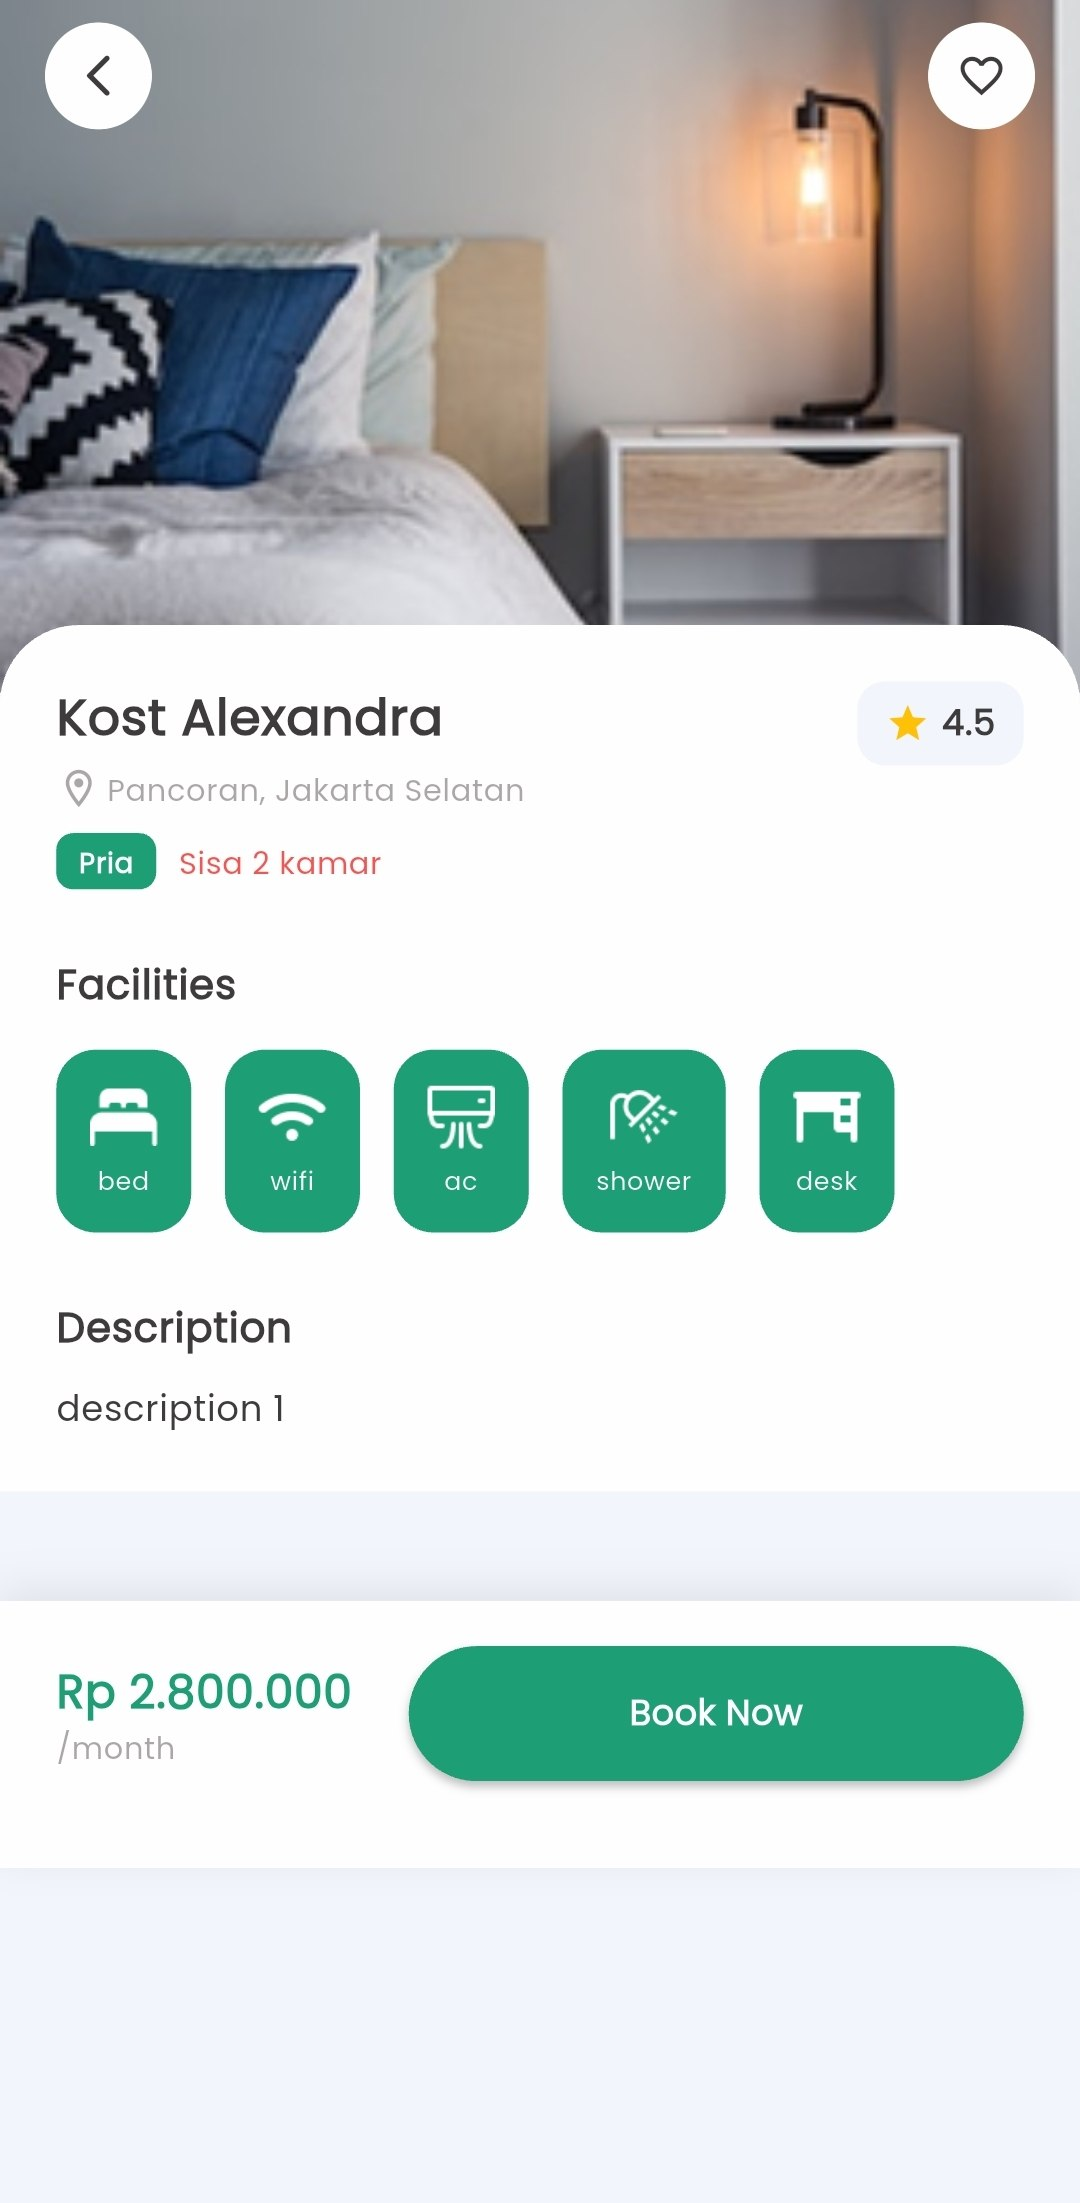
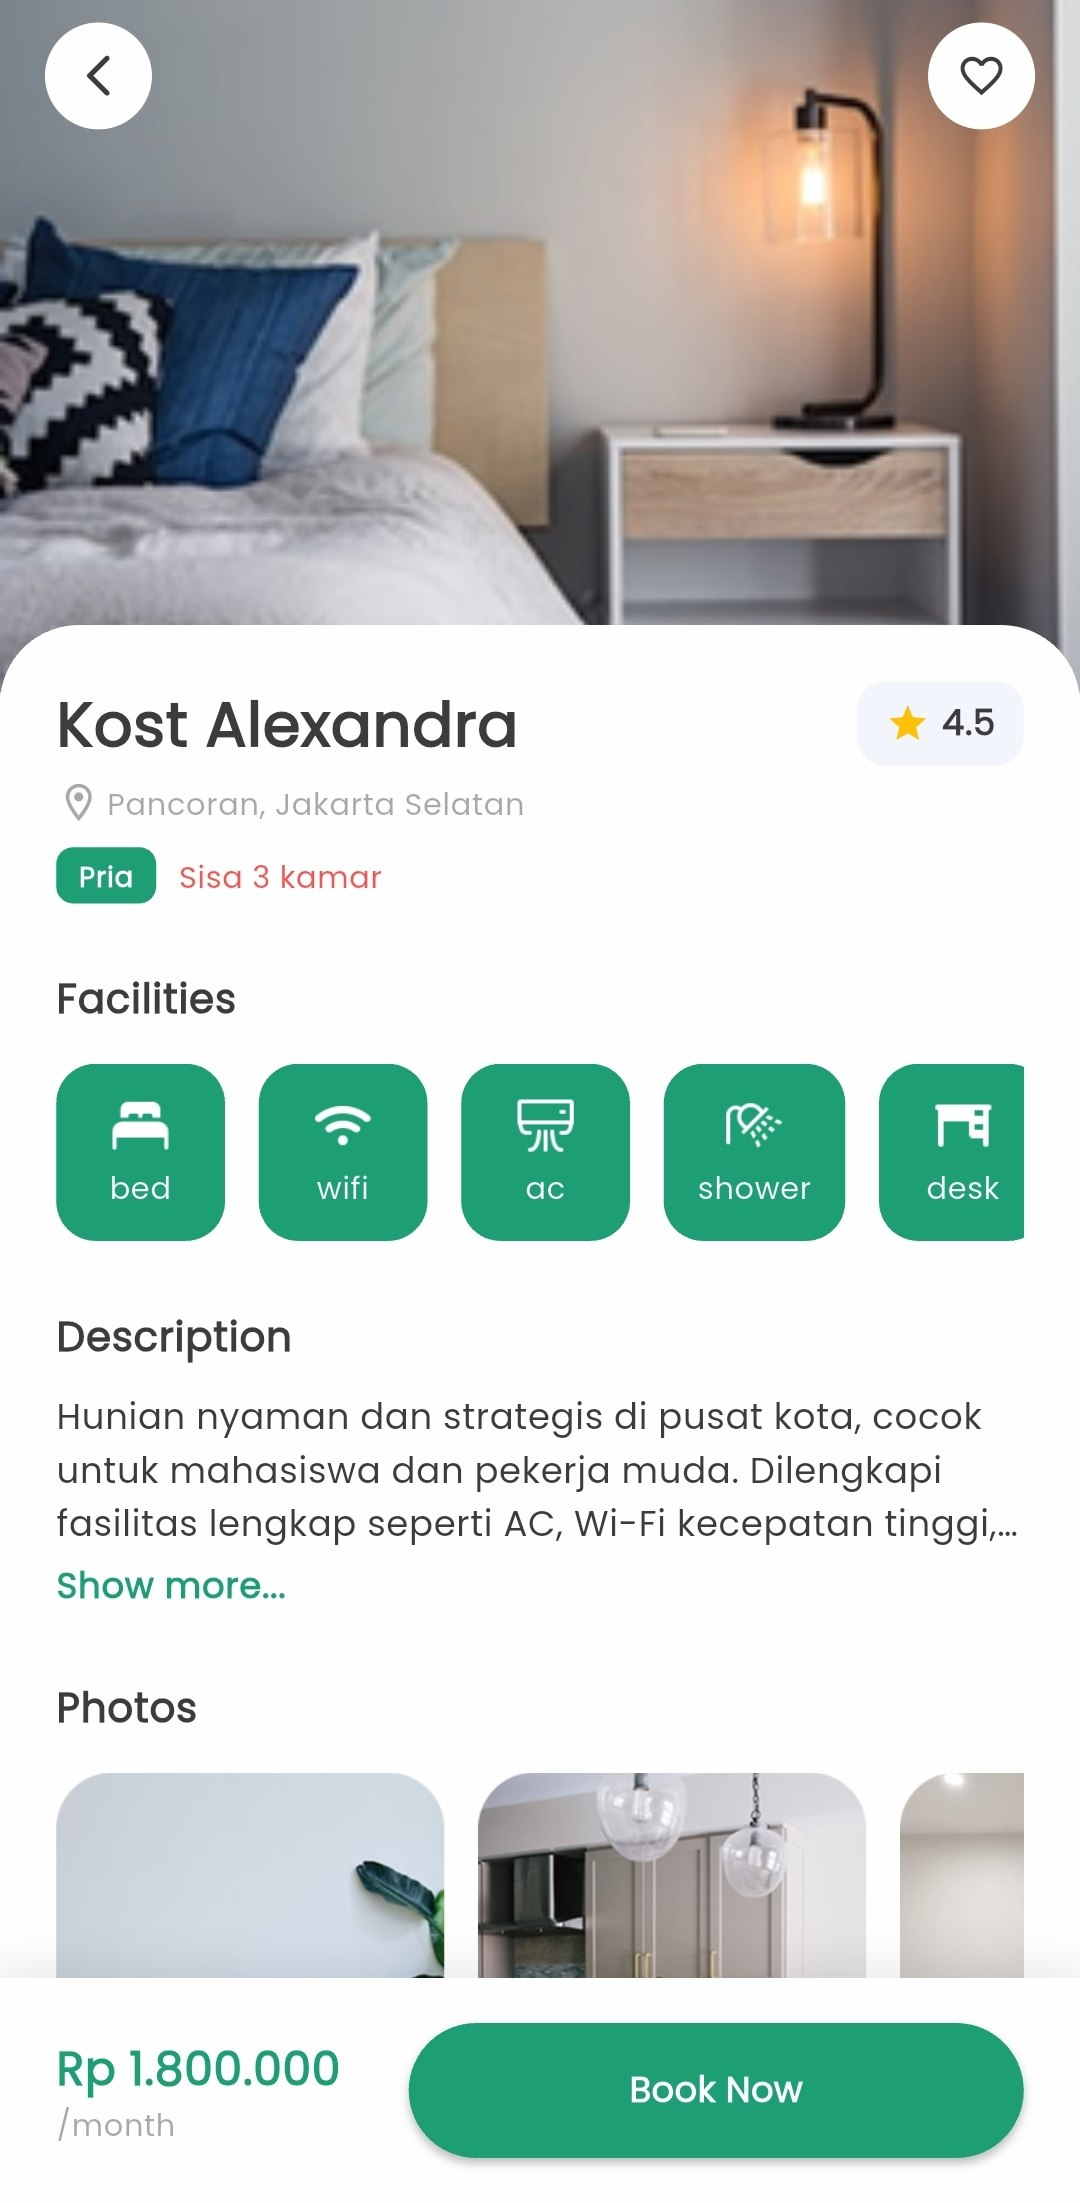
docs: update readme

diff --git a/README.md b/README.md
@@ -53,11 +53,11 @@ Desain dibuat menggunakan Figma dengan prinsip konsistensi warna, hierarki visua
 ## 📱 Tampilan Aplikasi
 
 <p align="start">
-  <img src="assets/images/login_screen.jpg" width="100">
+  <img src="assets/images/login_screen.jpg" width="50">
   &nbsp;&nbsp;
-  <img src="assets/images/home_screen.jpg" width="100">
+  <img src="assets/images/home_screen.jpg" width="50">
   &nbsp;&nbsp;
-  <img src="assets/images/detail_screen.jpg" width="100">
+  <img src="assets/images/detail_screen.jpg" width="50">
 </p>
 
 ---
